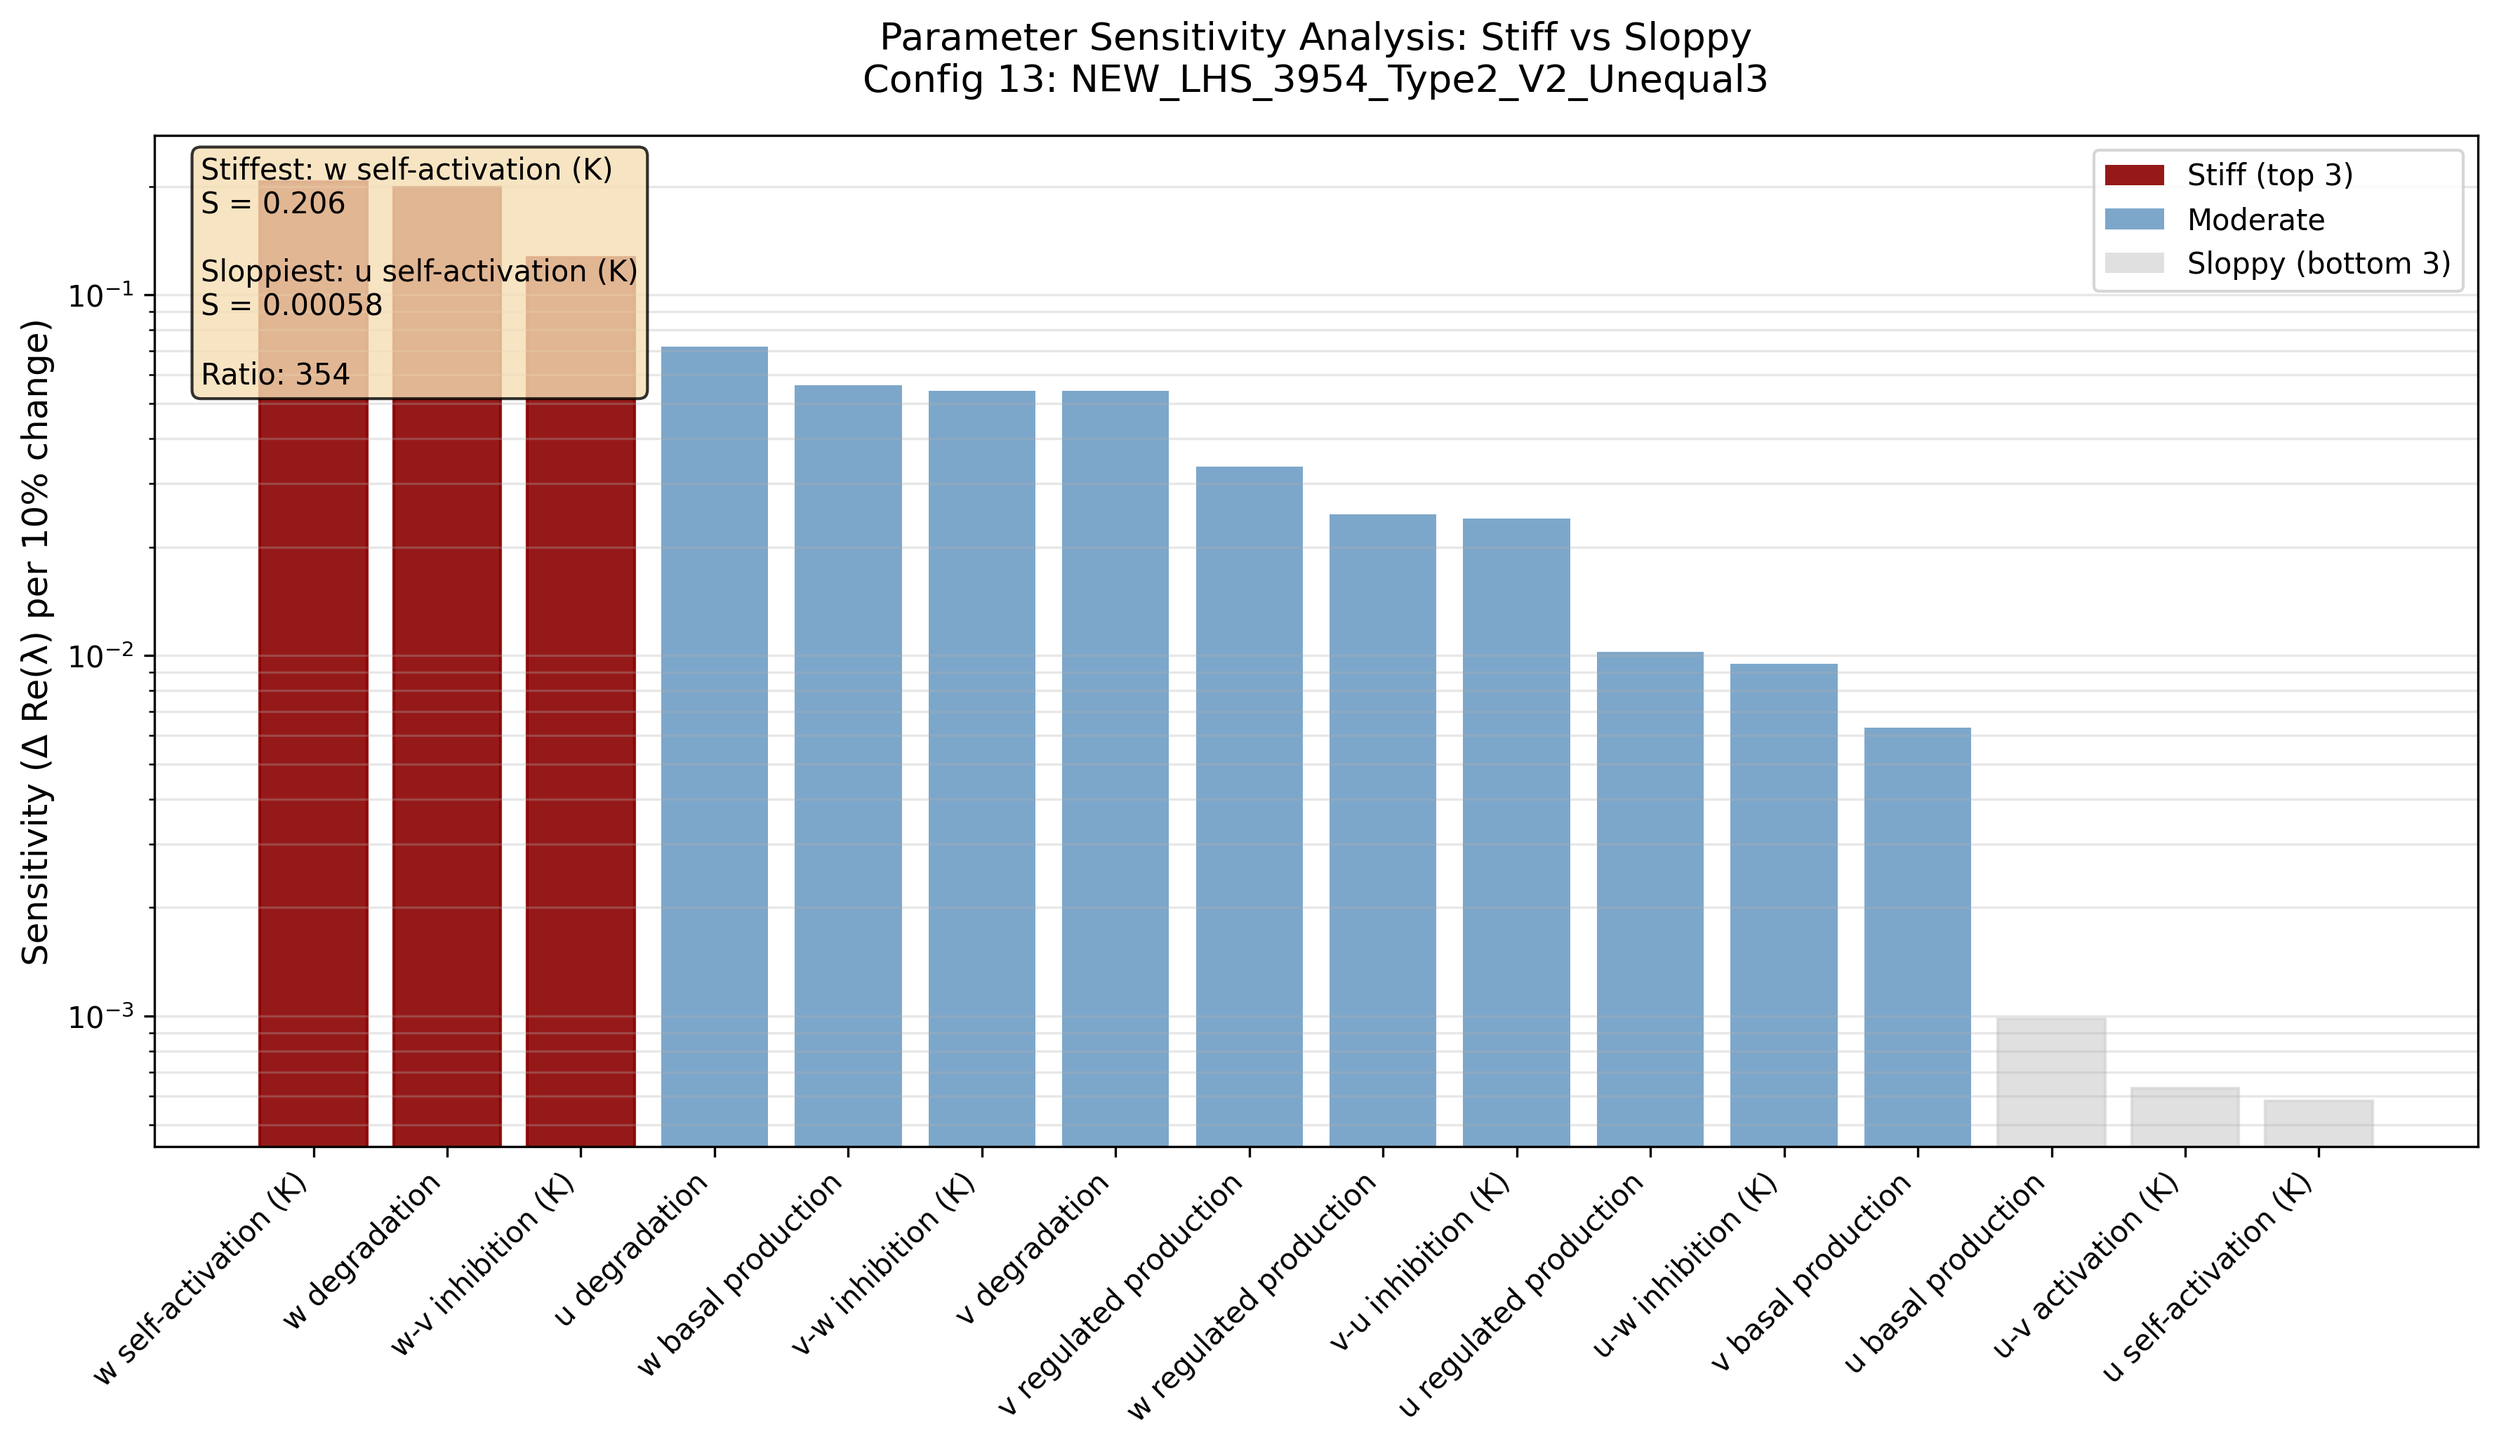
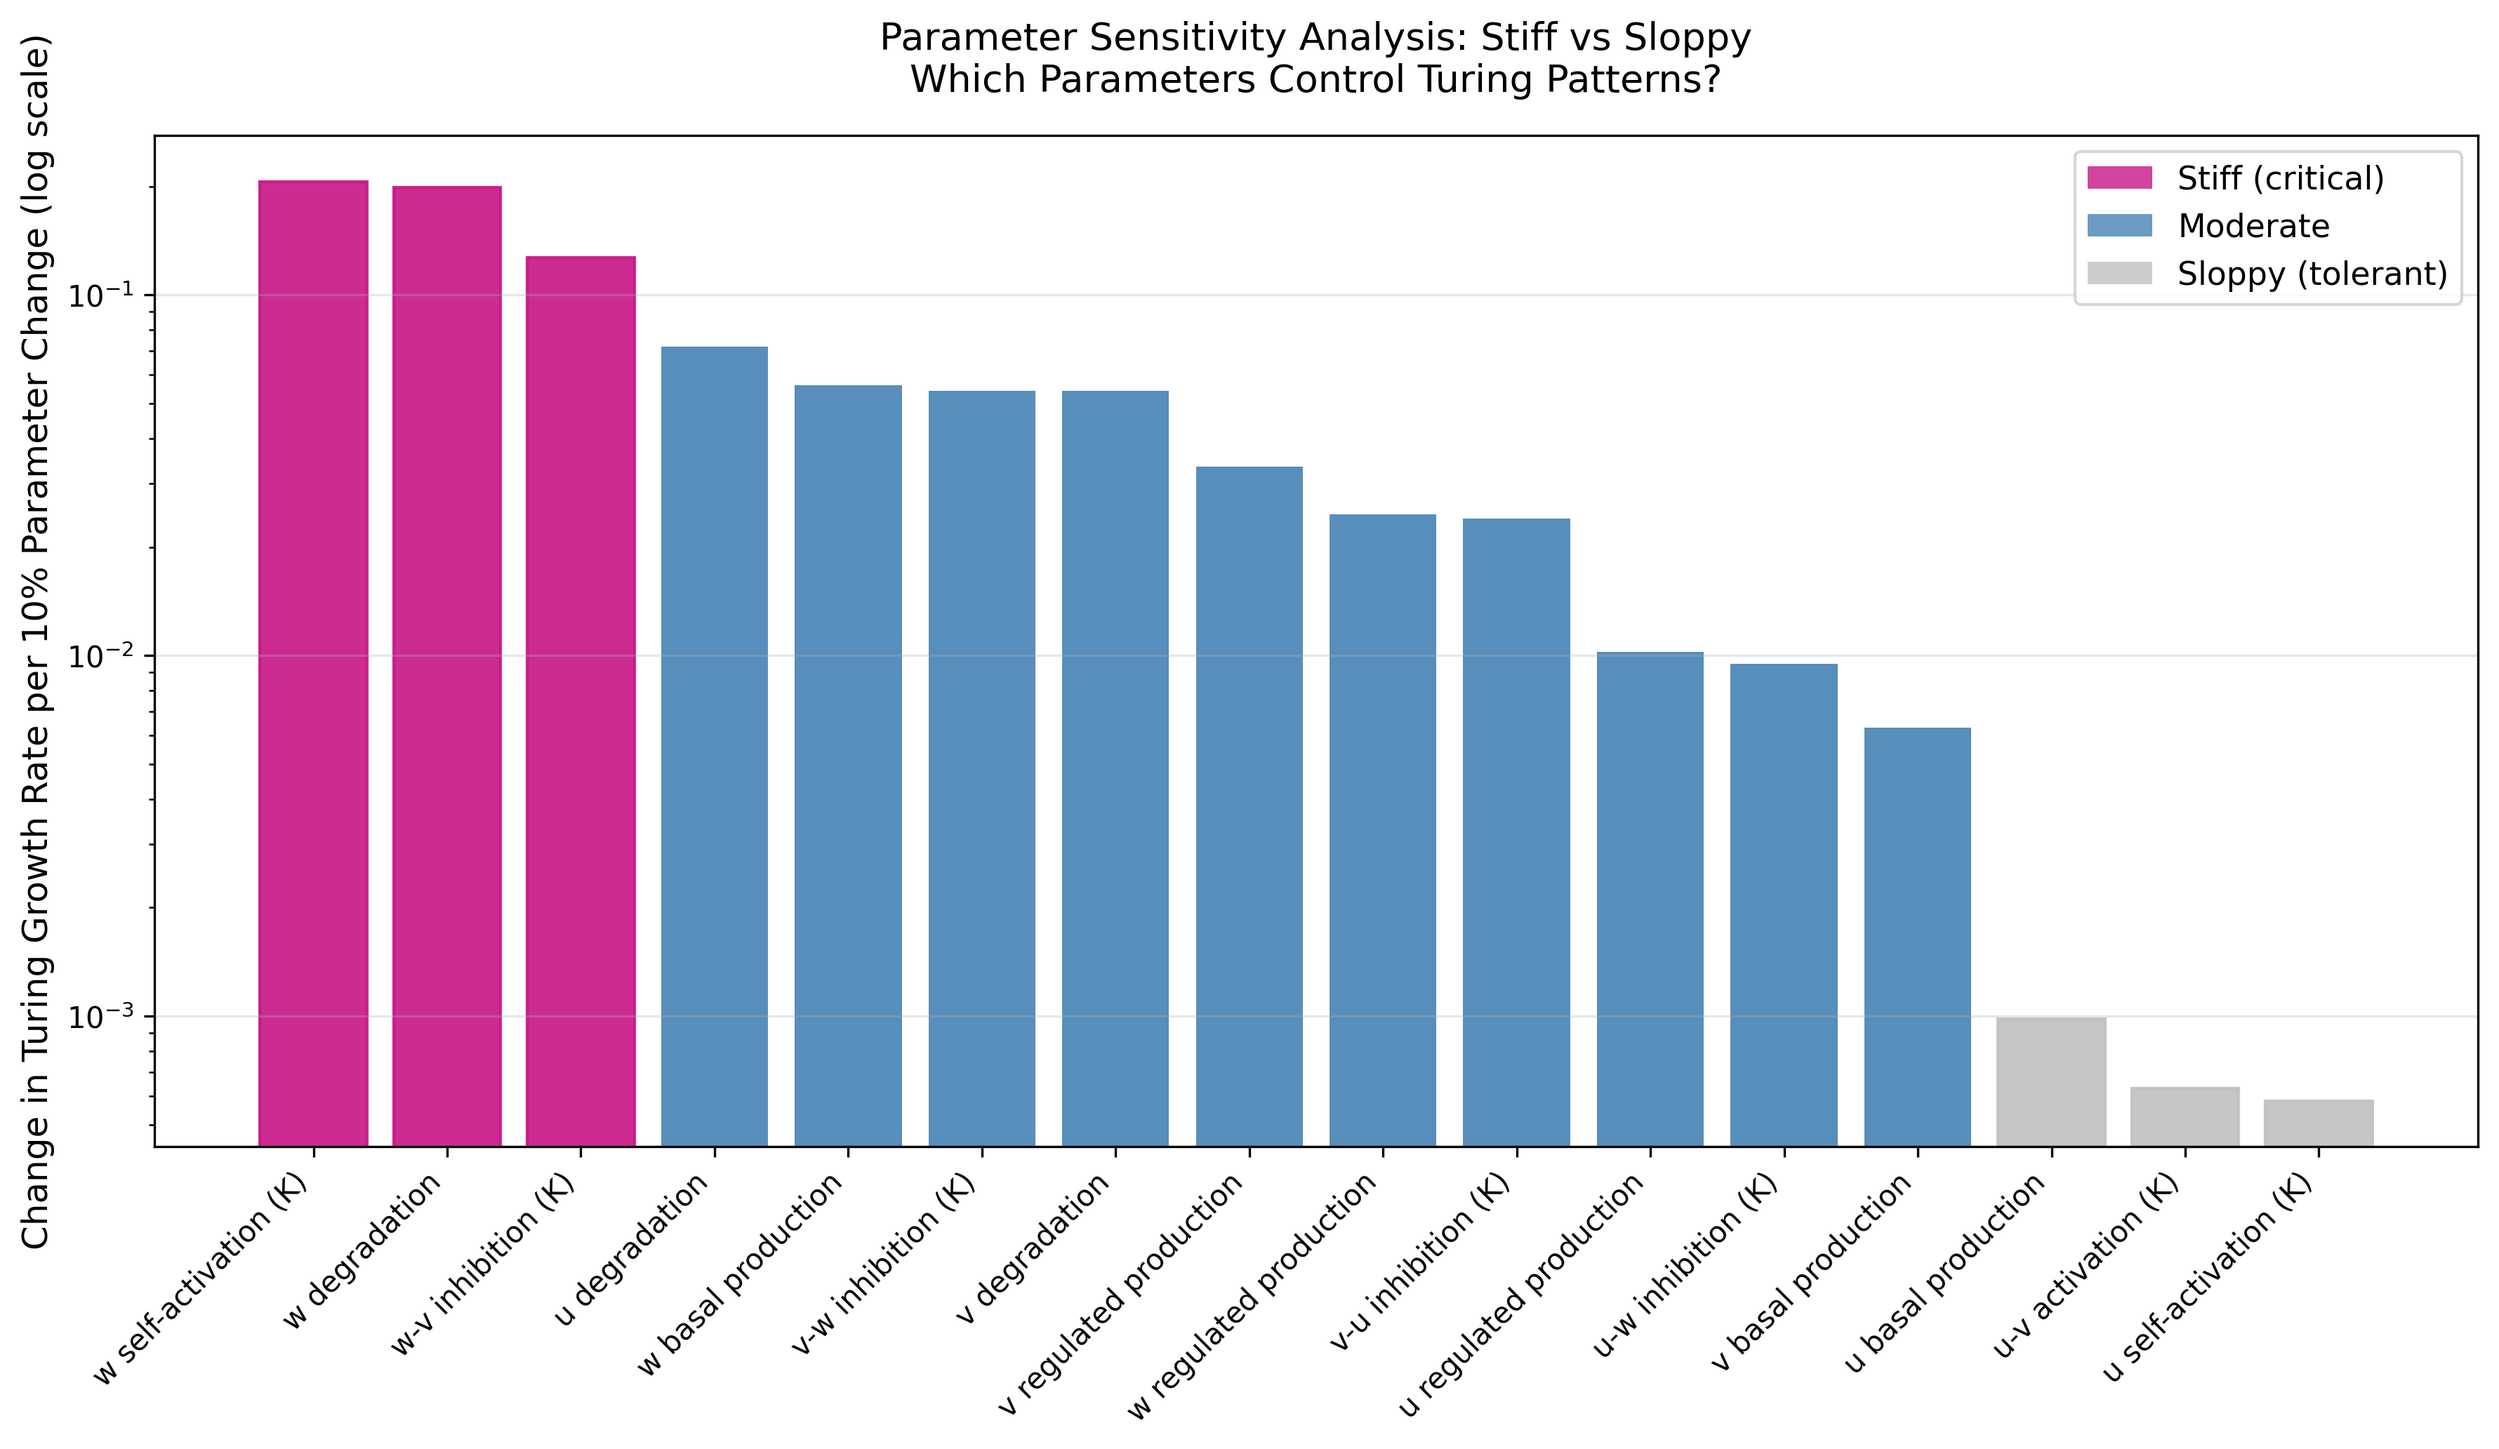
new plots

diff --git a/BiologicalRealism/plots.py b/BiologicalRealism/plots.py
@@ -207,33 +207,35 @@ sorted_sens = [sensitivities[i] for i in sorted_indices]
 fig, ax = plt.subplots(figsize=(12, 7))
 
 # Create bars
-bars = ax.bar(range(len(sorted_labels)), sorted_sens, color='steelblue', alpha=0.7)
+bars = ax.bar(range(len(sorted_labels)), sorted_sens, color='steelblue', alpha=0.9)
 
 # Color top 3 (stiff) in red
 for i in range(min(3, len(bars))):
-    bars[i].set_color('purple')
-    bars[i].set_alpha(0.7)
+    bars[i].set_color('mediumvioletred')
+    bars[i].set_alpha(0.9)
 
 # Color bottom 3 (sloppy) in gray
 for i in range(max(0, len(bars)-3), len(bars)):
     bars[i].set_color('silver')
-    bars[i].set_alpha(0.8)
+    bars[i].set_alpha(0.9)
 
 # Labels
 ax.set_xticks(range(len(sorted_labels)))
 ax.set_xticklabels(sorted_labels, rotation=45, ha='right', fontsize=10)
-ax.set_ylabel('Change in Turing Growth Rate\nper 10% Parameter Change\n(log scale)', fontsize=12)
-ax.set_title('Parameter Sensitivity: Which Parameters Control Turing Patterns?\n' 'Stiff = Critical, Sloppy = Tolerant', fontsize=13, pad=15)
+ax.set_ylabel('Change in Turing Growth Rate per 10% Parameter Change (log scale)', fontsize=12)
+ax.set_title('Parameter Sensitivity Analysis: Stiff vs Sloppy\nWhich Parameters Control Turing Patterns?', fontsize=13, pad=15)
 
-# Log scale
+# Only 4 clean tick marks
+# ax.set_yticks([0.001, 0.01, 0.1, 1.0])
+# ax.set_yticklabels(['0.001', '0.01', '0.1', '1.0'])
 ax.set_yscale('log')
-ax.grid(True, alpha=0.3, axis='y', which='both')
+ax.grid(True, alpha=0.3, axis='y', which='major')
 
 # Legend
 from matplotlib.patches import Patch
 legend_elements = [
-    Patch(facecolor='purple', alpha=0.7, label='Stiff (critical)'),
-    Patch(facecolor='steelblue', alpha=0.7, label='Moderate'),
+    Patch(facecolor='mediumvioletred', alpha=0.8, label='Stiff (critical)'),
+    Patch(facecolor='steelblue', alpha=0.8, label='Moderate'),
     Patch(facecolor='silver', alpha=0.8, label='Sloppy (tolerant)')
 ]
 ax.legend(handles=legend_elements, loc='upper right', fontsize=11)
